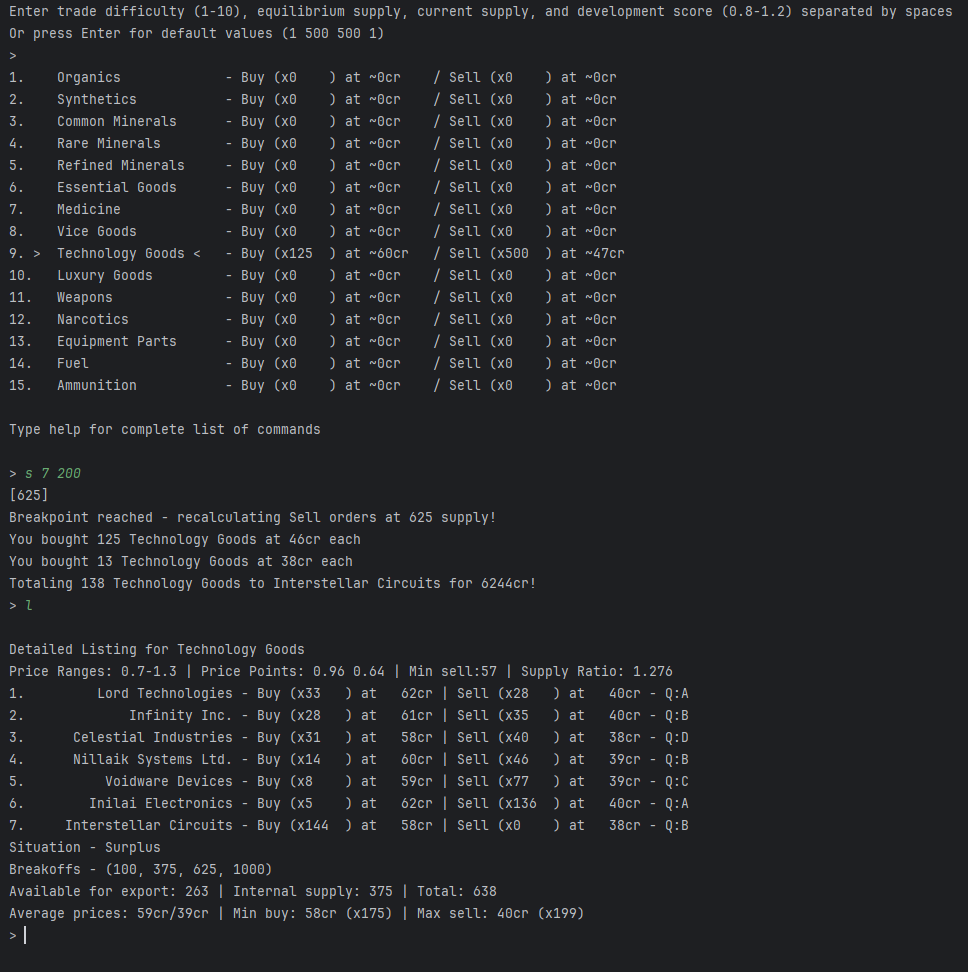
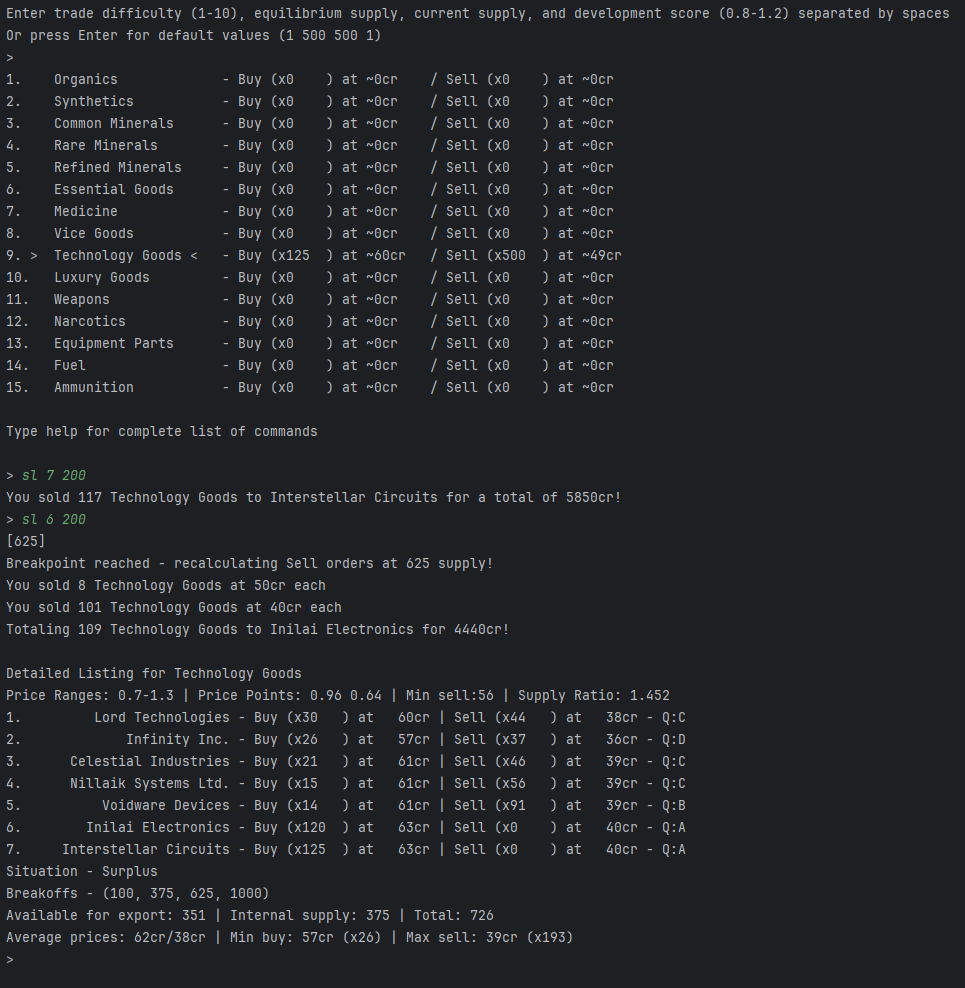
Fixed operating with 0 quantity orders

Changed region(s): [[0.0, 0.4321, 0.715, 0.9568], [0.0, 0.0, 0.9948, 0.4012]]

diff --git a/main.py b/main.py
@@ -99,7 +99,7 @@ if __name__ == "__main__":
             quantities, prices, order = market.buy_sell(market.buy_orders[tg] if operation == "Buy" else market.sell_orders[tg], corp_index - 1, tg, quantity, operation)
 
             if not quantities:
-                print(f"Need at least 1 unit to {operation.lower()}")
+                print(f"Cannot {operation.lower()} on an order with 0 quantity")
                 command, params = parse_command()
                 continue
 
@@ -112,7 +112,7 @@ if __name__ == "__main__":
             total_cost = sum(q * p for q, p in brackets)
 
             for q, p in brackets:
-                print(f"You bought {q} {tg} at {p}cr each")
+                print(f"You {"bought" if operation == "Buy" else "sold"} {q} {tg} at {p}cr each")
 
             print(f"Totaling {sum(quantities)} {tg} {"from" if operation == "Buy" else "to"} {order.economy_entity.name} for {total_cost}cr!")
 

diff --git a/market.py b/market.py
@@ -407,12 +407,10 @@ class Market:
 
     def buy_sell(self, orders, order_index, trade_good, quantity, operation):
         try:
-            if operation == "Buy":
-                order = orders[order_index]
-            elif operation == "Sell":
-                order = orders[order_index]
-            else:
-                return -1
+            order = orders[order_index]
+
+            if order.quantity == 0:
+                return None, None, order
 
             # create pairs for quantity and price
             quantity_operated = quantity if order.quantity >= quantity else order.quantity
